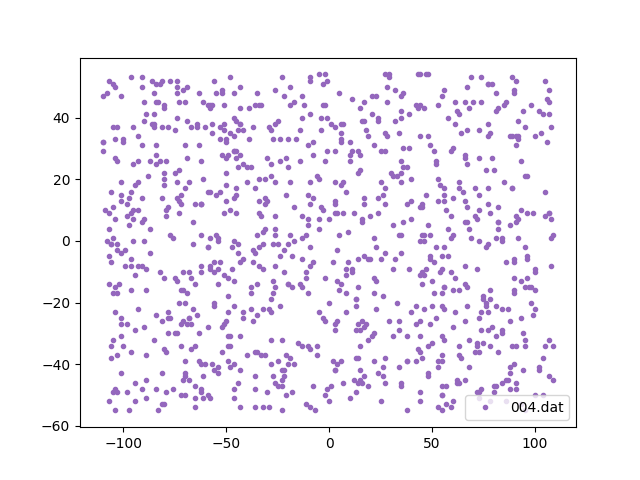
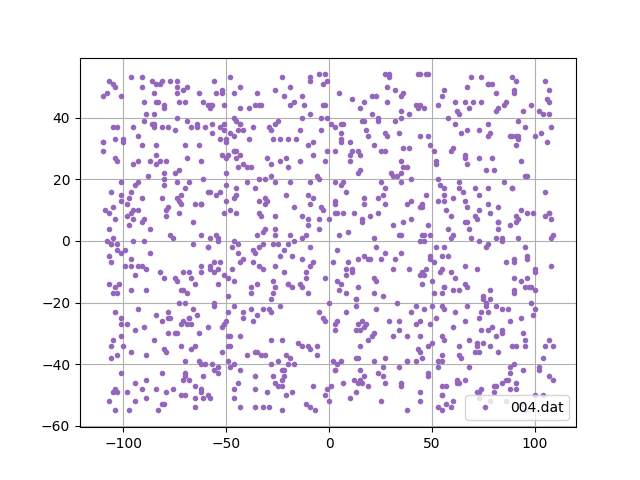
Episode 1 completed

diff --git a/Lab_MPL/Episode 1/main.py b/Lab_MPL/Episode 1/main.py
@@ -1,7 +1,7 @@
 import matplotlib.pyplot as plt
 
 for num in range(1, 6):
-    fname = "Data/00%d.dat" % num
+    fname = "../Data/00%d.dat" % num
     f = open(fname)
     n = int(f.readline())
     x = []
@@ -12,8 +12,9 @@ for num in range(1, 6):
         y.append(float(r[1]))
 
     f.close()
+    plt.grid()
 
     plt.plot(x, y, ".C%d" % num, label="00%d.dat" % num)
     plt.legend()
-    plt.savefig("../00%d.png" % num)
+    plt.savefig("00%d.png" % num)
     plt.show()
